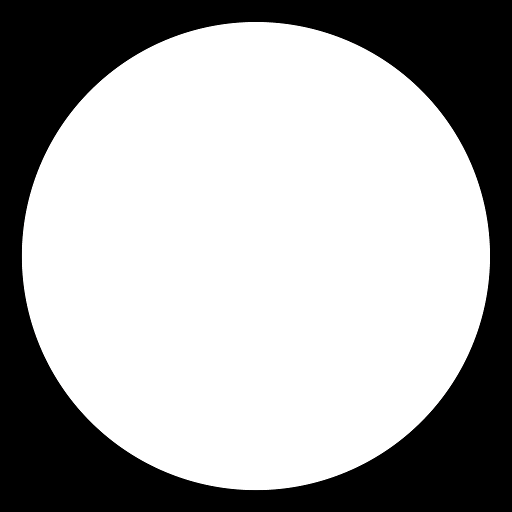
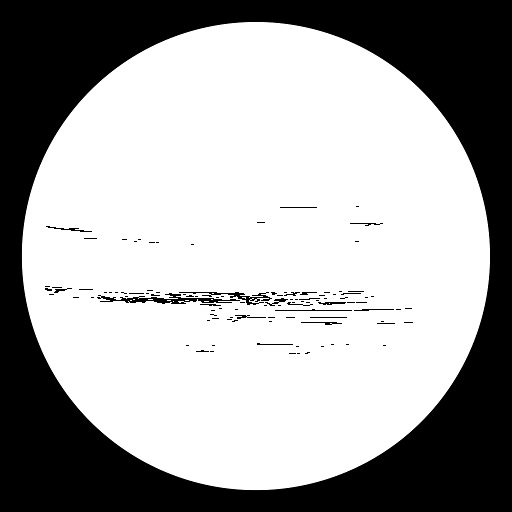
Criterios de regresion para los datos

Changed region(s): [[0.1875, 0.5625, 0.7188, 0.6562], [0.125, 0.4375, 0.1875, 0.4688], [0.0938, 0.5625, 0.125, 0.5938]]

diff --git a/lib/libsun.py b/lib/libsun.py
@@ -373,7 +373,7 @@ def getPlotValuesFromComsois(comsois, ve_comsois, center):
                 #phi = abs(val2[1] + val1[1])/2
                 theta = abs(val2[0] + val1[0]) / 2
 
-                if w > 0:# and w < 5.434e-6:
+                if w > 0 and w < 5.434e-6:
                     val = math.pow(math.sin(theta), 2)
                     y.append(w)
                     x.append(theta)
